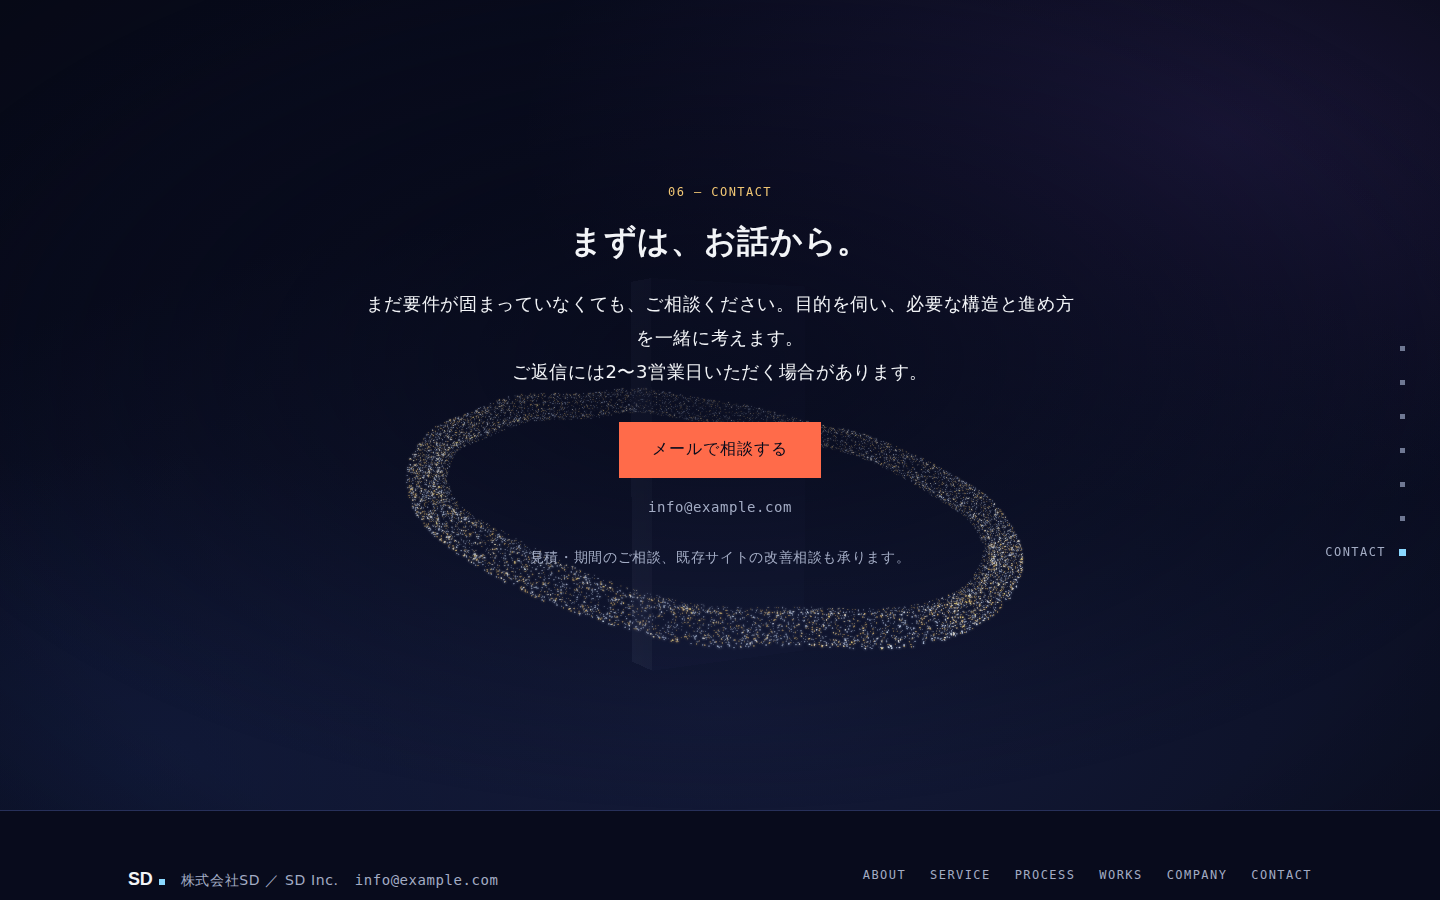
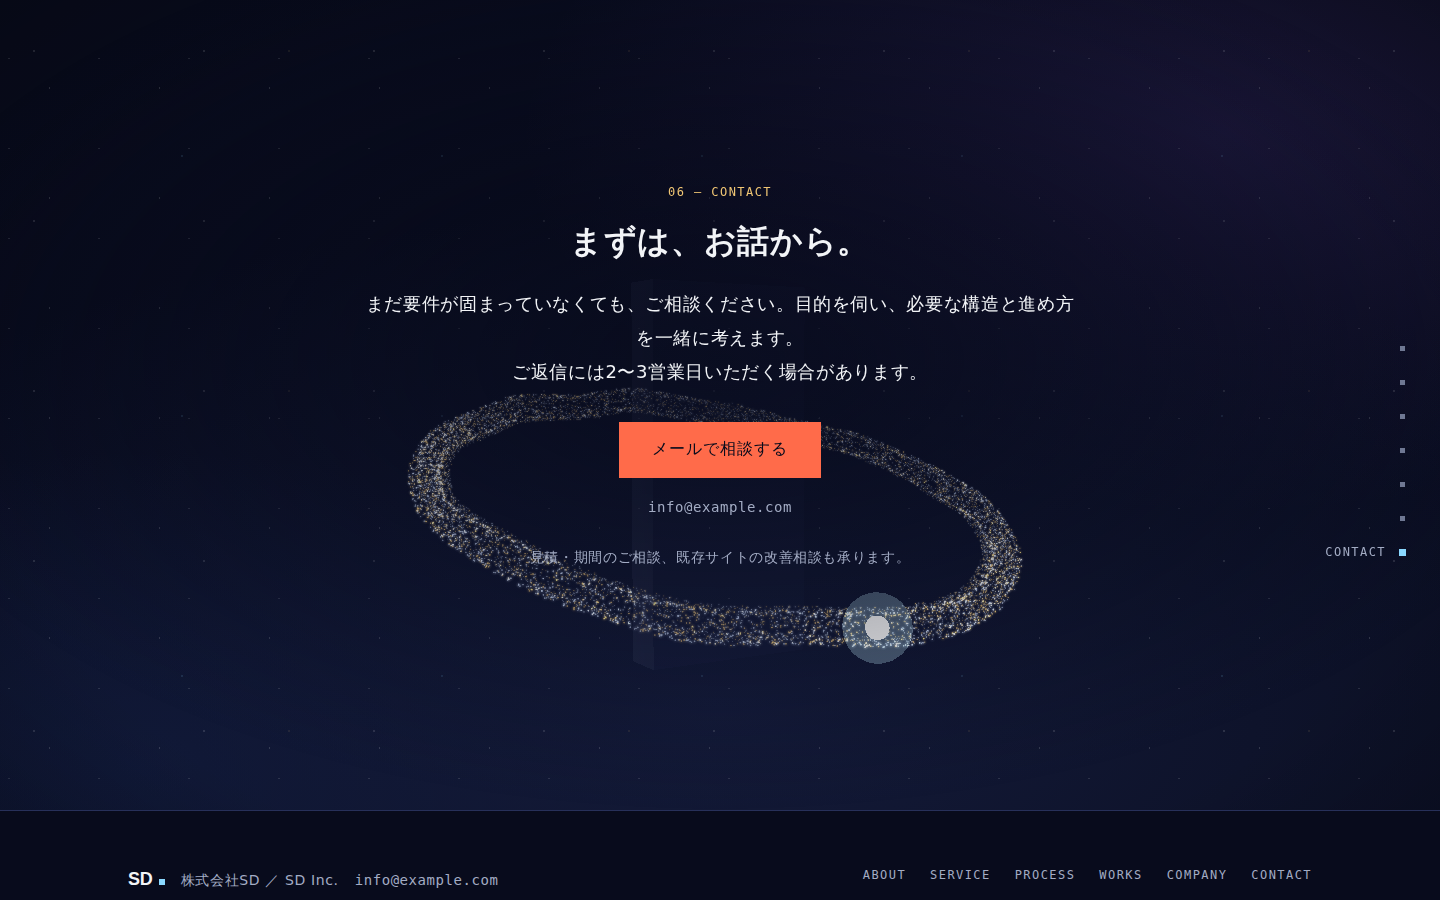
Add planets: About core planet, Contact orbit light, hero far planet
- About: fresnel planet body with a solid face and glowing limb; the T1
  target is now a tilted ring of points plus a sparse atmosphere shell
  that passes behind the body (points depth-test against it)
- Contact: a small light with additive halo travels along the ring
- Hero: a small ringed planet in the far background, world-space, fades
  out as the galaxy hands off to About; positioned per layout
- Fresnel shader gains a body-alpha uniform; screenshots and OG regenerated

Claude-Session: https://claude.ai/code/session_01Fd1mfAUBwXNiZSSwWGqTG3

Changed region(s): [[0.2812, 0.4356, 0.7188, 0.7467]]

diff --git a/src/three/scene.ts b/src/three/scene.ts
@@ -109,7 +109,7 @@ export function createScene(canvas: HTMLCanvasElement, opts: { isMobile: boolean
       defines,
       transparent: true,
       depthWrite: false,
-      depthTest: false,
+      depthTest: true,
       blending: THREE.AdditiveBlending,
       premultipliedAlpha: true,
     });
@@ -124,7 +124,7 @@ export function createScene(canvas: HTMLCanvasElement, opts: { isMobile: boolean
   lines.visible = false;
   group.add(points, glow, lines);
 
-  const fresnel = (base: THREE.Color, rim: THREE.Color, power: number) =>
+  const fresnel = (base: THREE.Color, rim: THREE.Color, power: number, bodyAlpha = 0.15, depthWrite = false) =>
     new THREE.ShaderMaterial({
       vertexShader: FRESNEL_VERT,
       fragmentShader: FRESNEL_FRAG,
@@ -133,9 +133,10 @@ export function createScene(canvas: HTMLCanvasElement, opts: { isMobile: boolean
         uRim: { value: rim.clone() },
         uPower: { value: power },
         uOpacity: { value: 0 },
+        uBodyAlpha: { value: bodyAlpha },
       },
       transparent: true,
-      depthWrite: false,
+      depthWrite,
       premultipliedAlpha: true,
     });
   const knotMat = fresnel(COLORS.knotBase, COLORS.knotRim, 2.6);
@@ -146,6 +147,36 @@ export function createScene(canvas: HTMLCanvasElement, opts: { isMobile: boolean
   slabMesh.position.y = 0.2;
   slabMesh.visible = false;
   group.add(knotMesh, slabMesh);
+
+  /* About: planet body. Writes depth and draws first so the ring of points passes behind it. */
+  const planetMat = fresnel(new THREE.Color('#152650'), new THREE.Color('#8ad8ff'), 2.2, 0.92, true);
+  const planetMesh = new THREE.Mesh(new THREE.SphereGeometry(1.9, opts.isMobile ? 32 : 56, opts.isMobile ? 20 : 36), planetMat);
+  planetMesh.renderOrder = -2;
+  planetMesh.visible = false;
+  group.add(planetMesh);
+
+  /* Contact: a light travelling along the ring (T6 geometry: R 2.6, tilted 18°) */
+  const orbitMat = new THREE.MeshBasicMaterial({ color: new THREE.Color('#e8f6ff'), transparent: true, opacity: 0, depthWrite: false });
+  const orbitMesh = new THREE.Mesh(new THREE.SphereGeometry(0.09, 16, 12), orbitMat);
+  const orbitGlowMat = new THREE.MeshBasicMaterial({ color: new THREE.Color('#8ad8ff'), transparent: true, opacity: 0, depthWrite: false, blending: THREE.AdditiveBlending });
+  const orbitGlow = new THREE.Mesh(new THREE.SphereGeometry(0.26, 16, 12), orbitGlowMat);
+  orbitMesh.add(orbitGlow);
+  orbitMesh.visible = false;
+  group.add(orbitMesh);
+
+  /* Hero: small ringed planet in the far background (world space, does not rotate with the group) */
+  const farGroup = new THREE.Group();
+  const farMat = fresnel(new THREE.Color('#1c2358'), new THREE.Color('#c9b8ff'), 2.4, 0.95, true);
+  const farPlanet = new THREE.Mesh(new THREE.SphereGeometry(opts.isMobile ? 0.28 : 0.4, 32, 20), farMat);
+  farPlanet.renderOrder = -2;
+  const farRingMat = new THREE.MeshBasicMaterial({ color: new THREE.Color('#a98bff'), transparent: true, opacity: 0, side: THREE.DoubleSide, depthWrite: false });
+  const farRing = new THREE.Mesh(new THREE.RingGeometry(opts.isMobile ? 0.38 : 0.55, opts.isMobile ? 0.55 : 0.8, 64), farRingMat);
+  farRing.rotation.x = Math.PI / 2 - 0.35;
+  farRing.rotation.z = 0.3;
+  farGroup.add(farPlanet, farRing);
+  // projected with the hero camera: desktop ≈ (1190px, 140px) of 1440×900, mobile ≈ (330px, 110px) of 390×844
+  farGroup.position.set(opts.isMobile ? 1.1 : 3.4, opts.isMobile ? 2.6 : 1.8, opts.isMobile ? -0.6 : -1.4);
+  scene.add(farGroup);
 
   /* ---------- interaction ---------- */
   const mouse = { x: 0, y: 0, tx: 0, ty: 0 };
@@ -195,6 +226,22 @@ export function createScene(canvas: HTMLCanvasElement, opts: { isMobile: boolean
     knotMat.uniforms.uOpacity.value = S.knotOpacity;
     slabMesh.visible = S.slabOpacity > 0.002;
     slabMat.uniforms.uOpacity.value = S.slabOpacity;
+    planetMesh.visible = S.planetOpacity > 0.002;
+    planetMat.uniforms.uOpacity.value = S.planetOpacity;
+    planetMesh.rotation.y = time * 0.05;
+    // orbiting light: ring param → tilt 18° about X (matches the T6 target)
+    orbitMesh.visible = S.orbitOpacity > 0.002;
+    orbitMat.opacity = S.orbitOpacity;
+    orbitGlowMat.opacity = S.orbitOpacity * 0.35;
+    {
+      const a = time * 0.45, R = 2.6, tilt = (18 * Math.PI) / 180;
+      const x = R * Math.cos(a), z = R * Math.sin(a);
+      orbitMesh.position.set(x, -z * Math.sin(tilt), z * Math.cos(tilt));
+    }
+    farGroup.visible = S.farOpacity > 0.002;
+    farMat.uniforms.uOpacity.value = S.farOpacity;
+    farRingMat.opacity = S.farOpacity * 0.45;
+    farGroup.rotation.y = time * 0.03;
 
     // idle + parallax
     mouse.x += (mouse.tx - mouse.x) * 0.05;
@@ -291,7 +338,9 @@ export function createScene(canvas: HTMLCanvasElement, opts: { isMobile: boolean
     document.removeEventListener('visibilitychange', onVisibility);
     geo.dispose(); lineGeo.dispose();
     pointsMat.dispose(); glowMat.dispose(); lineMat.dispose(); knotMat.dispose(); slabMat.dispose();
-    knotMesh.geometry.dispose(); slabMesh.geometry.dispose();
+    planetMat.dispose(); orbitMat.dispose(); orbitGlowMat.dispose(); farMat.dispose(); farRingMat.dispose();
+    knotMesh.geometry.dispose(); slabMesh.geometry.dispose(); planetMesh.geometry.dispose();
+    orbitMesh.geometry.dispose(); orbitGlow.geometry.dispose(); farPlanet.geometry.dispose(); farRing.geometry.dispose();
     renderer.dispose();
   };
 

diff --git a/src/three/targets.ts b/src/three/targets.ts
@@ -88,19 +88,33 @@ export function buildTargets(opts: TargetOptions): TargetSet {
     }
   }
 
-  /* T1 sphere (Fibonacci) */
+  /* T1 planet — thin ring of points around the planet mesh + a sparse atmosphere shell */
   const sphere = new Float32Array(n * 3);
   {
-    const R = 2.3;
+    const SHELL = 2.05, R_IN = 2.7, R_OUT = 3.8;
     const golden = Math.PI * (1 + Math.sqrt(5));
+    const tiltX = (22 * Math.PI) / 180, tiltZ = (10 * Math.PI) / 180;
+    const cx = Math.cos(tiltX), sx = Math.sin(tiltX), cz = Math.cos(tiltZ), sz = Math.sin(tiltZ);
     for (let i = 0; i < n; i++) {
-      const phi = Math.acos(1 - (2 * (i + 0.5)) / n);
-      const theta = golden * i;
-      const j = 1 + 0.03 * (rand() - 0.5);
-      const sp = Math.sin(phi);
-      sphere[i * 3] = R * sp * Math.cos(theta) * j;
-      sphere[i * 3 + 1] = R * sp * Math.sin(theta) * j;
-      sphere[i * 3 + 2] = R * Math.cos(phi) * j;
+      let x: number, y: number, z: number;
+      if (i % 3 === 0) {
+        // atmosphere shell (Fibonacci sphere just outside the mesh)
+        const phi = Math.acos(1 - (2 * (i + 0.5)) / n);
+        const theta = golden * i;
+        const j = SHELL * (1 + 0.04 * (rand() - 0.5));
+        x = j * Math.sin(phi) * Math.cos(theta); y = j * Math.sin(phi) * Math.sin(theta); z = j * Math.cos(phi);
+      } else {
+        // ring: denser inner band, a faint gap, then the outer band
+        const u = rand();
+        const band = u < 0.62 ? R_IN + (R_OUT - R_IN) * 0.45 * (u / 0.62) : R_IN + (R_OUT - R_IN) * (0.55 + 0.45 * ((u - 0.62) / 0.38));
+        const a2 = rand() * Math.PI * 2;
+        x = band * Math.cos(a2); z = band * Math.sin(a2);
+        y = (rand() + rand() + rand() - 1.5) * 0.04;
+      }
+      // tilt the whole target so the ring reads as a plane seen at an angle
+      const y1 = y * cx - z * sx, z1 = y * sx + z * cx;
+      const x2 = x * cz - y1 * sz, y2 = x * sz + y1 * cz;
+      sphere[i * 3] = x2; sphere[i * 3 + 1] = y2; sphere[i * 3 + 2] = z1;
     }
   }
 

diff --git a/src/scroll/sections.ts b/src/scroll/sections.ts
@@ -71,6 +71,7 @@ export function setupSections(o: SectionsOptions): () => void {
     S.groupY = heroY;
     seg(tl, 0, 1, { camX: 0, camY: 4.2, camZ: 8.0, pointSize: 2.6, groupY: heroY }, { camX: 0.4, camY: 2.6, camZ: 7.4, pointSize: 2.0, groupY: 0 });
     seg(tl, 0.75, 1, { w0: 1, w1: 0 }, { w0: 0.6, w1: 0.4 });
+    seg(tl, 0.55, 0.95, { farOpacity: 1 }, { farOpacity: 0 });
     tl.fromTo('#hero-inner', { y: 0, opacity: 1 }, { y: -80, opacity: 0, duration: 0.6, immediateRender: false }, EPS);
     tls.push(tl);
   }
@@ -81,6 +82,8 @@ export function setupSections(o: SectionsOptions): () => void {
     seg(tl, 0, 0.35, { w0: 0.6, w1: 0.4, noise: 0.12, accentMix: 0.1 }, { w0: 0, w1: 1, noise: 0.08, accentMix: 0.25 });
     seg(tl, 0, 0.4, { camX: 0.4, camY: 2.6, camZ: 7.4, tX: 0 }, { camX: 1.2, camY: 0.6, camZ: 6.5, tX: X_ABOUT });
     seg(tl, 0, 1, { rotY: 0 }, { rotY: 0.4 });
+    seg(tl, 0.12, 0.4, { planetOpacity: 0 }, { planetOpacity: 0.85 });
+    seg(tl, 0.8, 1, { planetOpacity: 0.85 }, { planetOpacity: 0 });
     bg(tl, 0, 0.4, { '--bg-x': '50%', '--bg-y': '60%' }, { '--bg-x': '62%', '--bg-y': '45%' });
     seg(tl, 0.8, 1, { w1: 1, w2: 0 }, { w1: 0.5, w2: 0.5 });
     tls.push(tl);
@@ -178,6 +181,7 @@ export function setupSections(o: SectionsOptions): () => void {
       { w5: 0, w6: 1, pointSize: 2.0, noise: 0.05, breath: 0.02, accentMix: 0.4, idleSpeed: 0.04, colorMix: 1 });
     seg(tl, 0, morphEnd, { camX: -1.6, camY: -0.8, camZ: 7.0, tX: X_COMPANY, tY: 0.6, groupY: 0 }, { camX: 0, camY: 0.4, camZ: 7.5, tX: X_CONTACT, tY: 0, groupY });
     bg(tl, 0, morphEnd, { '--bg-x': '35%', '--bg-y': '55%' }, { '--bg-x': '50%', '--bg-y': '50%' });
+    seg(tl, morphEnd * 0.6, morphEnd, { orbitOpacity: 0 }, { orbitOpacity: 1 });
     // footer tail
     seg(tl, 0.7, 1, { opacity: 1, camZ: 7.5 }, { opacity: 0.35, camZ: 8.5 });
     bg(tl, 0.7, 1, { '--bg-y': '50%' }, { '--bg-y': '100%' });

diff --git a/src/three/shaders.ts b/src/three/shaders.ts
@@ -157,12 +157,13 @@ uniform vec3 uBase;
 uniform vec3 uRim;
 uniform float uPower;
 uniform float uOpacity;
+uniform float uBodyAlpha;   // opacity of the face-on body (0.15 = glassy, 0.9 = solid planet)
 varying vec3 vN;
 varying vec3 vV;
 void main() {
   float f = pow(1.0 - max(dot(normalize(vN), normalize(vV)), 0.0), uPower);
   vec3 c = mix(uBase, uRim, f);
-  float a = (0.15 + 0.85 * f) * uOpacity;
+  float a = (uBodyAlpha + (1.0 - uBodyAlpha) * f) * uOpacity;
   gl_FragColor = vec4(c * a, a);
 }
 `;

diff --git a/src/three/state.ts b/src/three/state.ts
@@ -21,6 +21,12 @@ export const sceneState = {
   idleSpeed: 0.04,
   knotOpacity: 0,
   slabOpacity: 0,
+  /** About: planet body inside the ring of points */
+  planetOpacity: 0,
+  /** Contact: light travelling along the ring */
+  orbitOpacity: 0,
+  /** Hero: small ringed planet in the far background */
+  farOpacity: 1,
   camX: 0, camY: 4.2, camZ: 8.0,
   tX: 0, tY: 0, tZ: 0,
   fov: 42,
